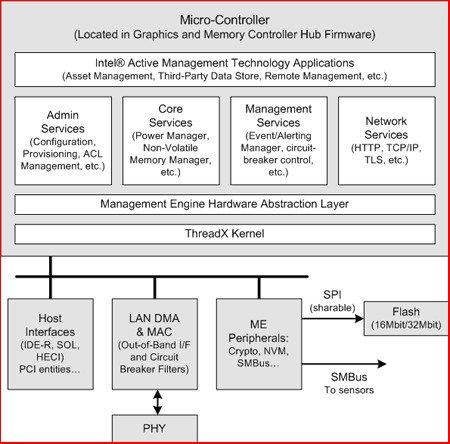
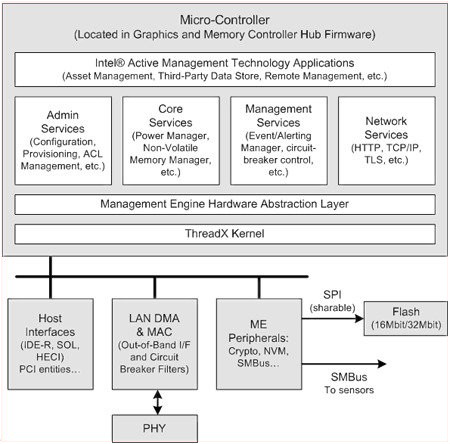
Modified hash part, corrected two images

diff --git a/index.html b/index.html
@@ -652,7 +652,7 @@ Intel AMT is an *out-of-band* management technology, offering:
 
 ### Intel ME
 
-<img src="img/me_arch.png" alt="ME structure" style="height: 19em; box-shadow: none;">
+<img src="img/me_arch_transparent_2.png" alt="ME structure" style="height: 19em; box-shadow: none;">
 
 ---
 
@@ -773,26 +773,32 @@ __We found no substantial bugs appearing so far__
 
 ---
 
-### Wasn't it signed?
+### Signatures
 
-Every partition is signed separately, while the partition table isn't signed:
+The code is __signed at partition level__:
+- removing an entire partition *doesn't break a signature*,
+- but removing modules from a partition *should break it*.
 
-This means that
-- removing whole partitions *does not break a signature*,
-- but removing modules from a partition *does*.
-
----
-
-## Then why the system boots even if we remove some modules?
+__Then why the system boots even if we remove some modules?__
 
 ---
 
-### We have three hypothesis:
+### The signatures are working like this:
 
-* Either Intel ME is running the code left and
-  - each module has an additional internal signature
-  - or we are running unsigned code
-* Or Intel ME is halting before running the code left
+<img src="img/ME_partition_structure.svg" alt="ME partitions" style="height: 18em; box-shadow: none;">
+
+---
+
+### The signatures are working like this:
+
+The *modules manifest list* signature is valid because it contains the
+old hashes (we don't modify them).
+
+But those hashes are broken __because we removed the code__.
+
+Apparently the hash check is done before executing each module.
+
+So we __can not run unsigned code__, but we can boot the system.
 
 ---
 
